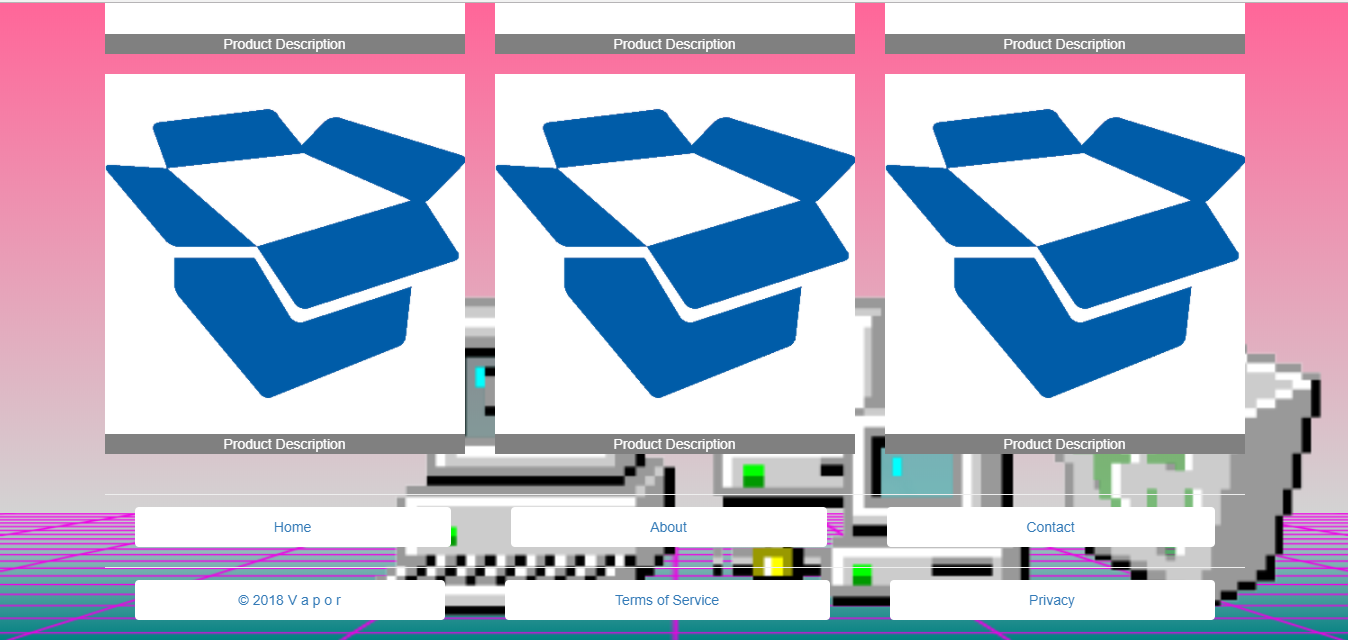
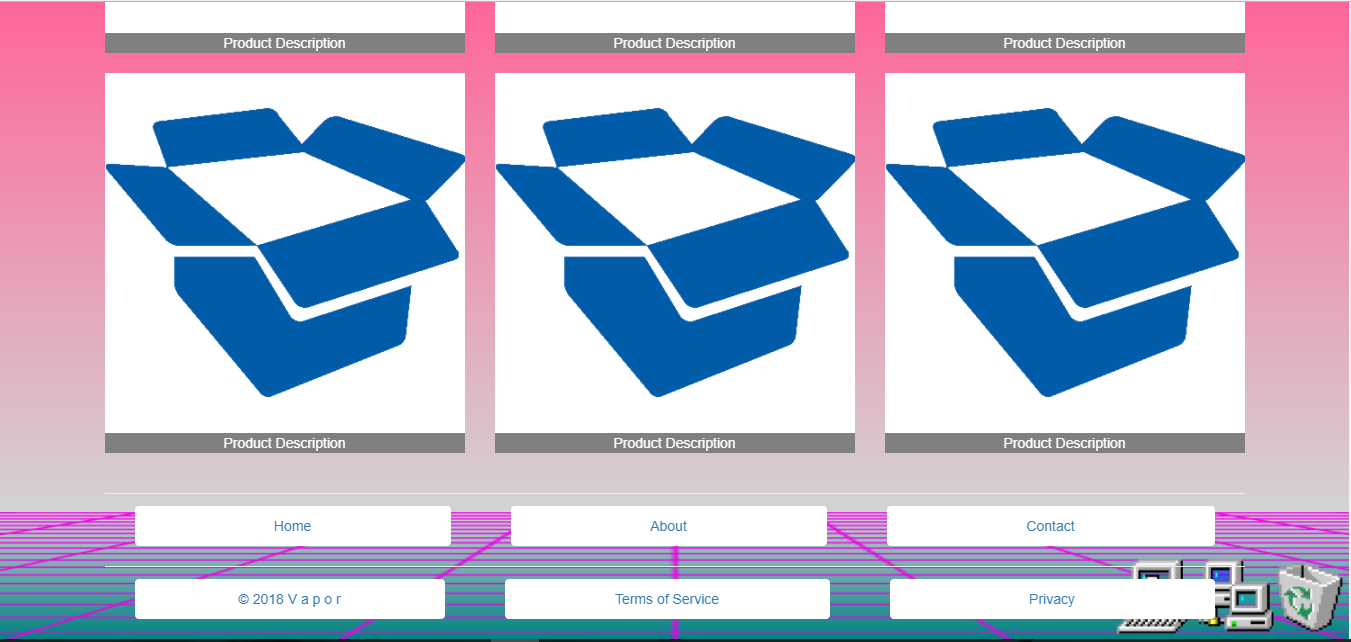
update screenshots

diff --git a/Vapor/index.php b/Vapor/index.php
@@ -8,8 +8,8 @@
 
 //include_once('database/connection.php');
 
-include_once('home_page.php');
-
+//include_once('home_page.php');
+include_once('product_page.php');
 
 
 
